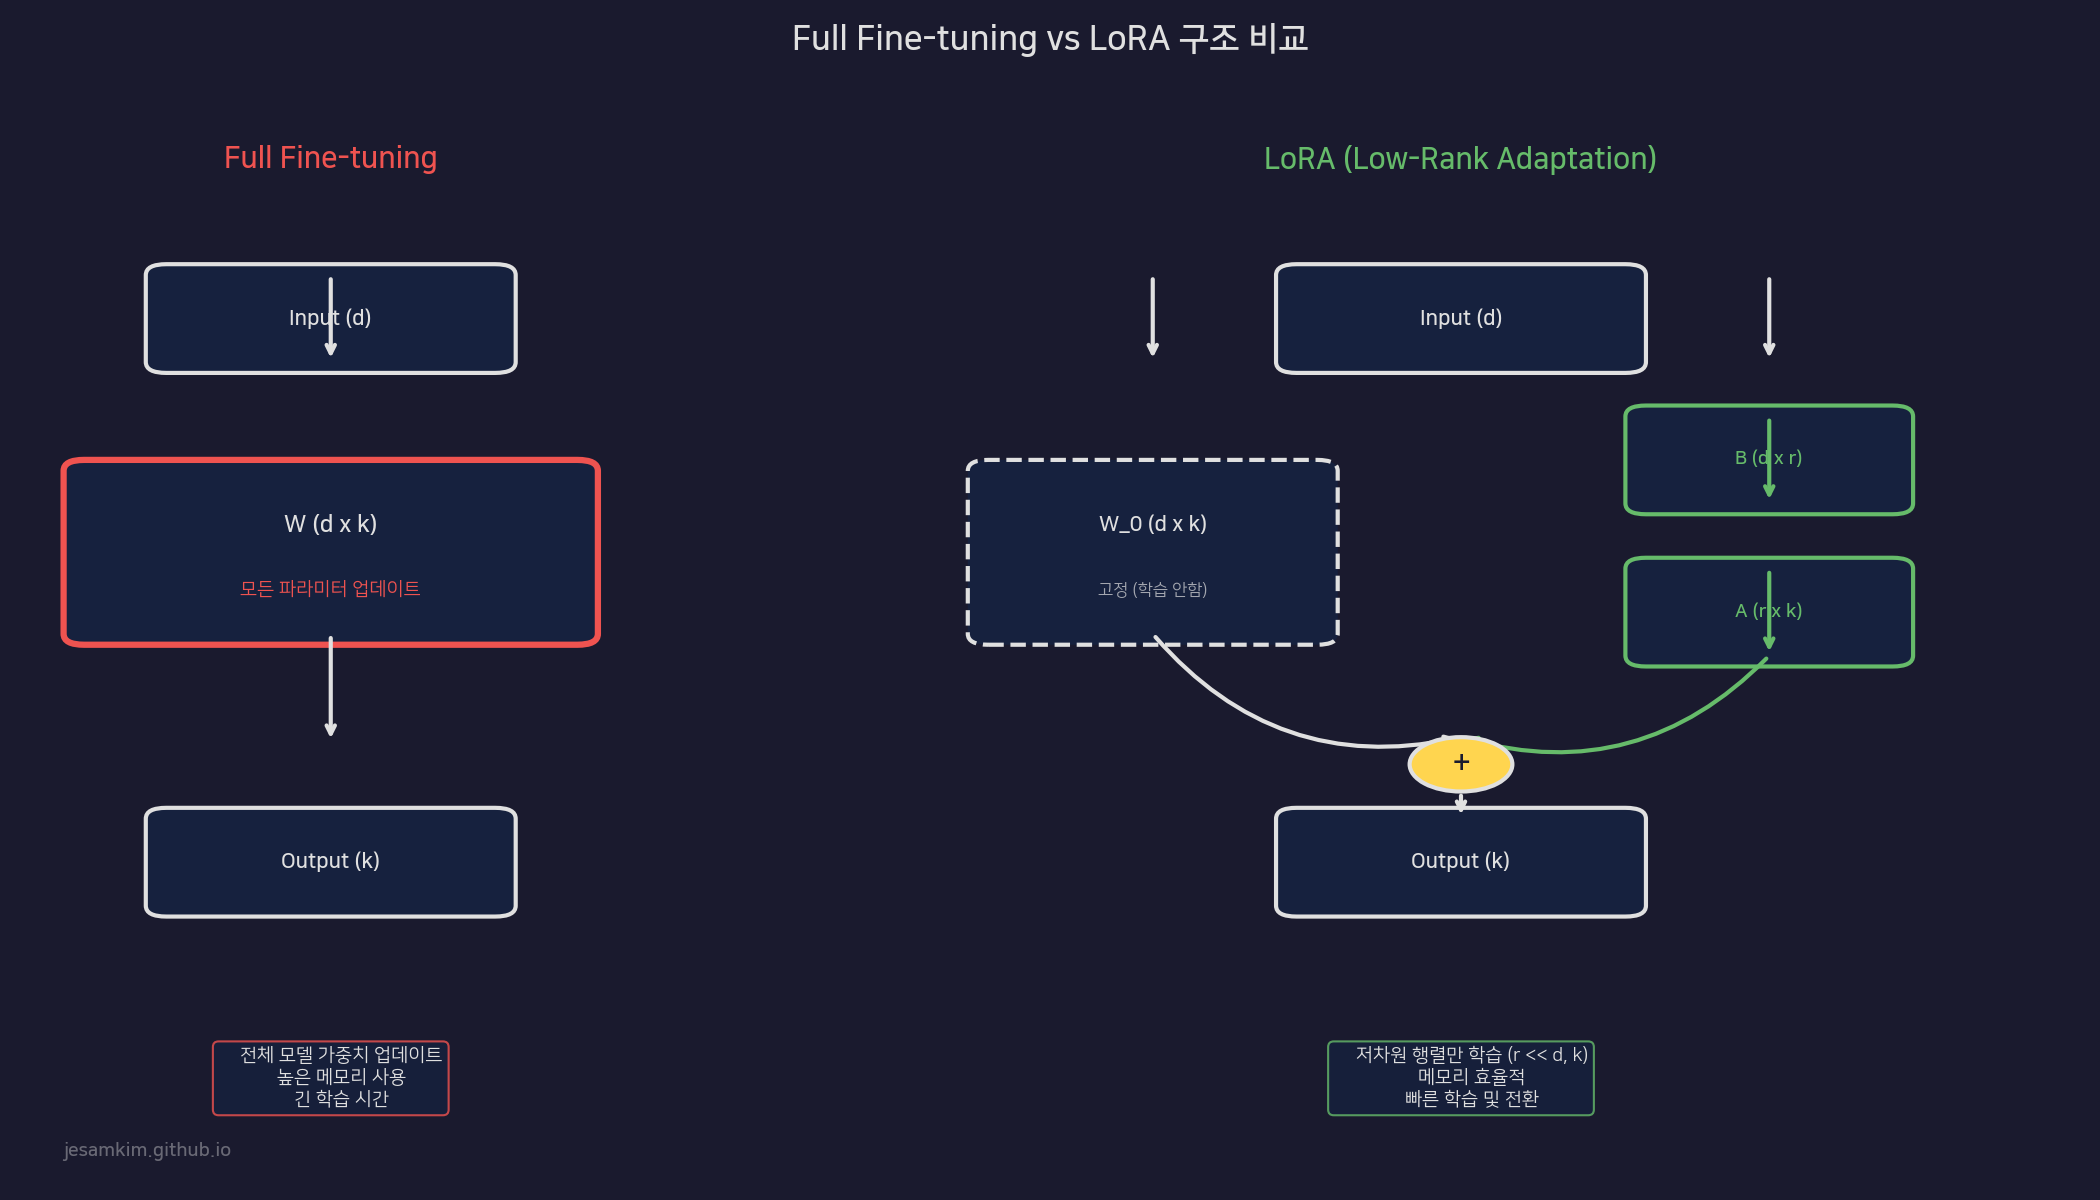
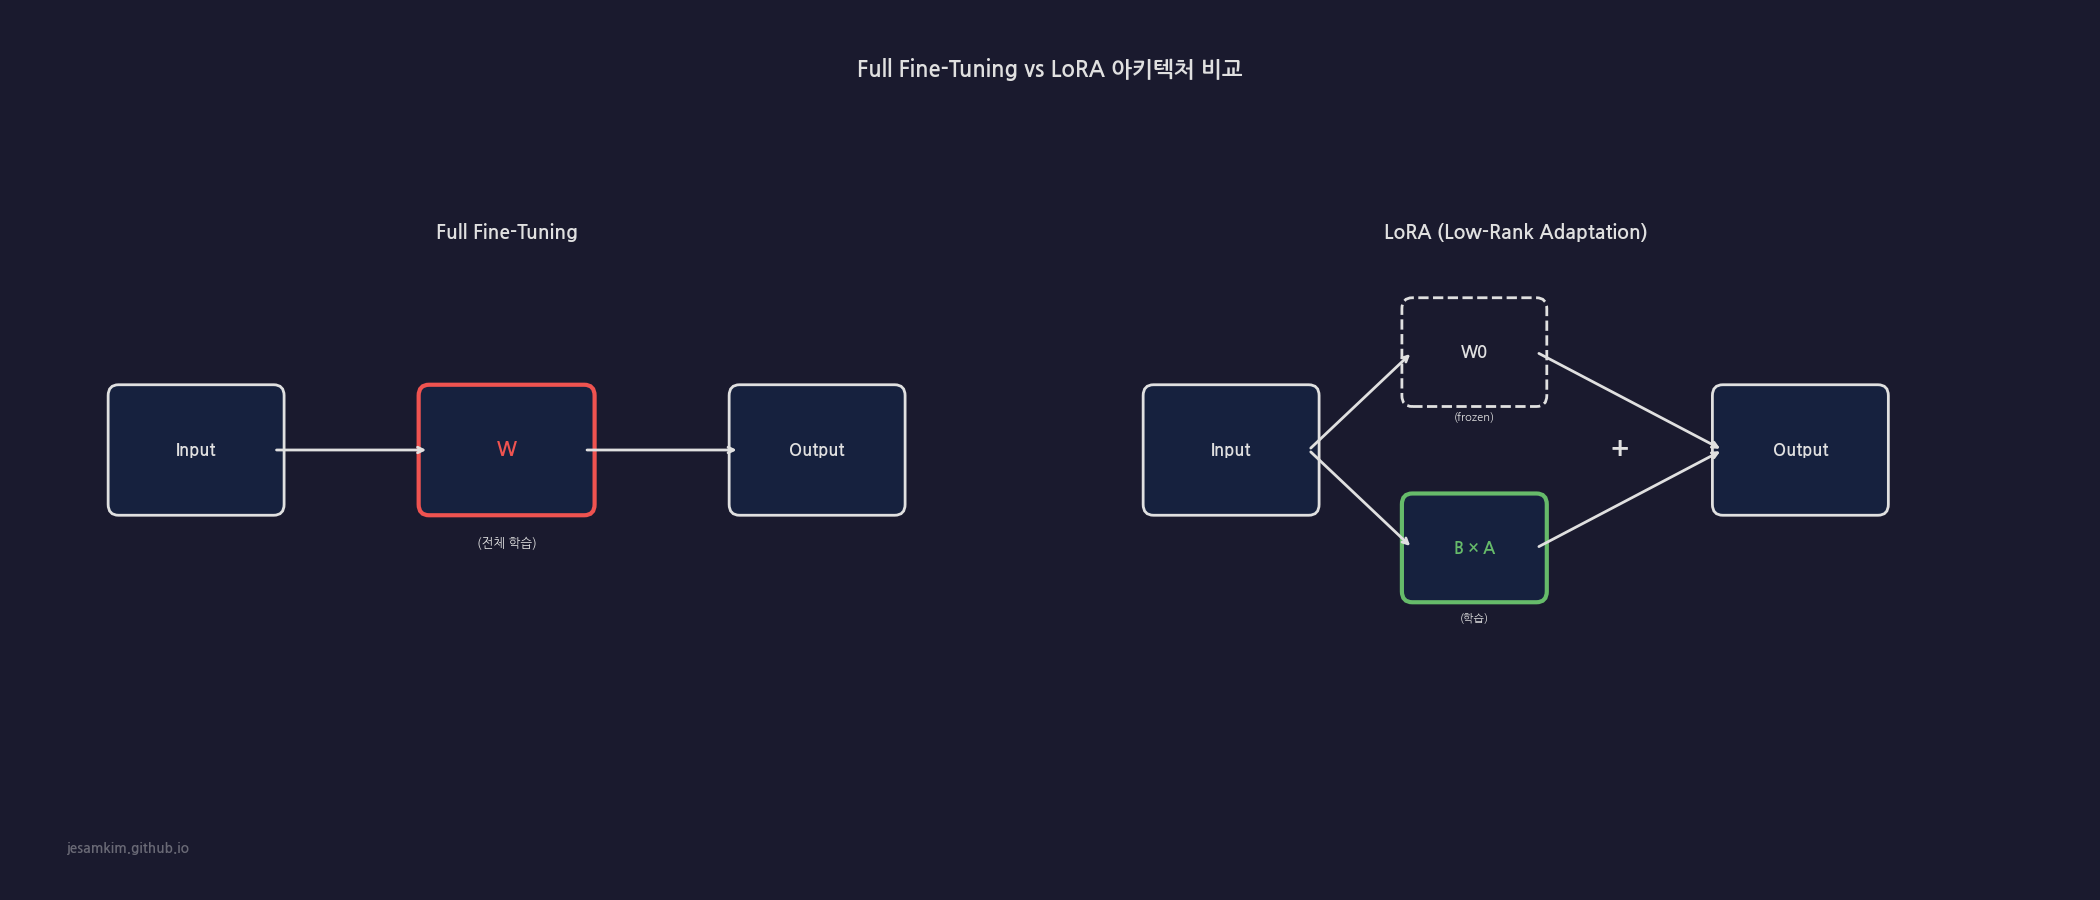
fix: 이미지 재생성 — 한글 폰트 적용, 겹침/잘림 수정

diff --git a/generate_lora_architecture.py b/generate_lora_architecture.py
@@ -1,0 +1,112 @@
+#!/usr/bin/env python3
+"""LoRA Architecture 비교 다이어그램 - 한글 폰트 수정"""
+
+import matplotlib
+matplotlib.rcParams["font.family"] = "NanumGothic"
+matplotlib.rcParams["axes.unicode_minus"] = False
+import matplotlib.pyplot as plt
+import matplotlib.patches as mpatches
+
+# 폰트 매니저 캐시 초기화
+import matplotlib.font_manager as fm
+fm._load_fontmanager(try_read_cache=False)
+
+# 다크 테마 색상
+BG_COLOR = "#1a1a2e"
+TEXT_COLOR = "#e0e0e0"
+BOX_COLOR = "#16213e"
+RED = "#ef5350"
+GREEN = "#66bb6a"
+
+# Figure 생성 (가로 21, 세로 9)
+fig, ax = plt.subplots(figsize=(21, 9), facecolor=BG_COLOR)
+ax.set_facecolor(BG_COLOR)
+ax.set_xlim(0, 20)
+ax.set_ylim(0, 8)
+ax.axis("off")
+
+# === 좌측: Full Fine-Tuning ===
+# Input 박스
+input1 = mpatches.FancyBboxPatch((1, 3.5), 1.5, 1, boxstyle="round,pad=0.1",
+                                  facecolor=BOX_COLOR, edgecolor=TEXT_COLOR, linewidth=2)
+ax.add_patch(input1)
+ax.text(1.75, 4, "Input", ha="center", va="center", fontsize=12, color=TEXT_COLOR, weight="bold")
+
+# W 박스 (빨간색)
+w1 = mpatches.FancyBboxPatch((4, 3.5), 1.5, 1, boxstyle="round,pad=0.1",
+                              facecolor=BOX_COLOR, edgecolor=RED, linewidth=3)
+ax.add_patch(w1)
+ax.text(4.75, 4, "W", ha="center", va="center", fontsize=14, color=RED, weight="bold")
+ax.text(4.75, 3.2, "(전체 학습)", ha="center", va="top", fontsize=9, color=TEXT_COLOR)
+
+# Output 박스
+output1 = mpatches.FancyBboxPatch((7, 3.5), 1.5, 1, boxstyle="round,pad=0.1",
+                                   facecolor=BOX_COLOR, edgecolor=TEXT_COLOR, linewidth=2)
+ax.add_patch(output1)
+ax.text(7.75, 4, "Output", ha="center", va="center", fontsize=12, color=TEXT_COLOR, weight="bold")
+
+# 화살표 (직선)
+ax.annotate("", xy=(4, 4), xytext=(2.5, 4),
+            arrowprops=dict(arrowstyle="->", color=TEXT_COLOR, lw=2))
+ax.annotate("", xy=(7, 4), xytext=(5.5, 4),
+            arrowprops=dict(arrowstyle="->", color=TEXT_COLOR, lw=2))
+
+# 타이틀
+ax.text(4.75, 6, "Full Fine-Tuning", ha="center", va="center",
+        fontsize=14, color=TEXT_COLOR, weight="bold")
+
+# === 우측: LoRA ===
+# Input 박스
+input2 = mpatches.FancyBboxPatch((11, 3.5), 1.5, 1, boxstyle="round,pad=0.1",
+                                  facecolor=BOX_COLOR, edgecolor=TEXT_COLOR, linewidth=2)
+ax.add_patch(input2)
+ax.text(11.75, 4, "Input", ha="center", va="center", fontsize=12, color=TEXT_COLOR, weight="bold")
+
+# W0 박스 (frozen, dashed)
+w0 = mpatches.FancyBboxPatch((13.5, 4.5), 1.2, 0.8, boxstyle="round,pad=0.1",
+                              facecolor=BG_COLOR, edgecolor=TEXT_COLOR, linewidth=2, linestyle="--")
+ax.add_patch(w0)
+ax.text(14.1, 4.9, "W0", ha="center", va="center", fontsize=12, color=TEXT_COLOR, weight="bold")
+ax.text(14.1, 4.3, "(frozen)", ha="center", va="center", fontsize=8, color=TEXT_COLOR, style="italic")
+
+# B*A 박스 (초록색)
+ba = mpatches.FancyBboxPatch((13.5, 2.7), 1.2, 0.8, boxstyle="round,pad=0.1",
+                              facecolor=BOX_COLOR, edgecolor=GREEN, linewidth=3)
+ax.add_patch(ba)
+ax.text(14.1, 3.1, "B × A", ha="center", va="center", fontsize=12, color=GREEN, weight="bold")
+ax.text(14.1, 2.5, "(학습)", ha="center", va="top", fontsize=8, color=TEXT_COLOR)
+
+# + 기호
+ax.text(15.5, 4, "+", ha="center", va="center", fontsize=20, color=TEXT_COLOR, weight="bold")
+
+# Output 박스
+output2 = mpatches.FancyBboxPatch((16.5, 3.5), 1.5, 1, boxstyle="round,pad=0.1",
+                                   facecolor=BOX_COLOR, edgecolor=TEXT_COLOR, linewidth=2)
+ax.add_patch(output2)
+ax.text(17.25, 4, "Output", ha="center", va="center", fontsize=12, color=TEXT_COLOR, weight="bold")
+
+# 화살표 (직선)
+ax.annotate("", xy=(13.5, 4.9), xytext=(12.5, 4),
+            arrowprops=dict(arrowstyle="->", color=TEXT_COLOR, lw=2))
+ax.annotate("", xy=(13.5, 3.1), xytext=(12.5, 4),
+            arrowprops=dict(arrowstyle="->", color=TEXT_COLOR, lw=2))
+ax.annotate("", xy=(16.5, 4), xytext=(14.7, 4.9),
+            arrowprops=dict(arrowstyle="->", color=TEXT_COLOR, lw=2))
+ax.annotate("", xy=(16.5, 4), xytext=(14.7, 3.1),
+            arrowprops=dict(arrowstyle="->", color=TEXT_COLOR, lw=2))
+
+# 타이틀
+ax.text(14.5, 6, "LoRA (Low-Rank Adaptation)", ha="center", va="center",
+        fontsize=14, color=TEXT_COLOR, weight="bold")
+
+# 전체 타이틀
+ax.text(10, 7.5, "Full Fine-Tuning vs LoRA 아키텍처 비교", ha="center", va="center",
+        fontsize=16, color=TEXT_COLOR, weight="bold")
+
+# 워터마크
+ax.text(0.5, 0.3, "jesamkim.github.io", fontsize=10, color=TEXT_COLOR, alpha=0.4, weight="bold")
+
+plt.tight_layout()
+plt.savefig("static/images/lora-architecture.png", dpi=100, facecolor=BG_COLOR)
+print("✓ lora-architecture.png 생성 완료")
+plt.close()

diff --git a/generate_peft_flowchart.py b/generate_peft_flowchart.py
@@ -1,0 +1,135 @@
+#!/usr/bin/env python3
+"""PEFT Decision Flowchart - 한글 폰트 수정"""
+
+import matplotlib
+matplotlib.rcParams["font.family"] = "NanumGothic"
+matplotlib.rcParams["axes.unicode_minus"] = False
+import matplotlib.pyplot as plt
+import matplotlib.patches as mpatches
+
+# 폰트 매니저 캐시 초기화
+import matplotlib.font_manager as fm
+fm._load_fontmanager(try_read_cache=False)
+
+# 다크 테마 색상
+BG_COLOR = "#1a1a2e"
+TEXT_COLOR = "#e0e0e0"
+BOX_COLOR = "#16213e"
+BLUE = "#4fc3f7"
+GREEN = "#66bb6a"
+YELLOW = "#ffd54f"
+
+# Figure 생성 (가로 18, 세로 21, xlim 여유 충분히)
+fig, ax = plt.subplots(figsize=(18, 21), facecolor=BG_COLOR)
+ax.set_facecolor(BG_COLOR)
+ax.set_xlim(-1, 17)  # 오른쪽 여유 증가
+ax.set_ylim(0, 20)
+ax.axis("off")
+
+def draw_diamond(ax, x, y, w, h, text, color=BLUE):
+    """다이아몬드 판단 노드"""
+    diamond = mpatches.FancyBboxPatch(
+        (x - w/2, y - h/2), w, h,
+        boxstyle="round,pad=0.1",
+        facecolor=BOX_COLOR, edgecolor=color, linewidth=2
+    )
+    ax.add_patch(diamond)
+    # 텍스트 줄바꿈
+    lines = text.split("\n")
+    y_offset = 0.15 * (len(lines) - 1)
+    for i, line in enumerate(lines):
+        ax.text(x, y + y_offset - i * 0.3, line, ha="center", va="center",
+                fontsize=10, color=TEXT_COLOR, weight="bold")
+
+def draw_box(ax, x, y, w, h, text, color=GREEN):
+    """사각형 결과 노드"""
+    box = mpatches.FancyBboxPatch(
+        (x - w/2, y - h/2), w, h,
+        boxstyle="round,pad=0.1",
+        facecolor=BOX_COLOR, edgecolor=color, linewidth=2
+    )
+    ax.add_patch(box)
+    ax.text(x, y, text, ha="center", va="center",
+            fontsize=11, color=color, weight="bold")
+
+def draw_arrow(ax, x1, y1, x2, y2, label=""):
+    """직선 화살표"""
+    ax.annotate("", xy=(x2, y2), xytext=(x1, y1),
+                arrowprops=dict(arrowstyle="->", color=TEXT_COLOR, lw=2))
+    if label:
+        mid_x, mid_y = (x1 + x2) / 2, (y1 + y2) / 2
+        ax.text(mid_x + 0.3, mid_y, label, ha="left", va="center",
+                fontsize=9, color=YELLOW, style="italic")
+
+# === 플로우차트 구조 ===
+
+# 시작
+ax.text(8, 19, "PEFT 기법 선택 가이드", ha="center", va="center",
+        fontsize=16, color=TEXT_COLOR, weight="bold")
+
+# 1. GPU 메모리
+draw_diamond(ax, 8, 17, 3, 1, "GPU 메모리\n제한 심각?")
+draw_arrow(ax, 8, 16.5, 8, 15.5, "YES")
+draw_box(ax, 8, 15, 2.5, 0.8, "QLoRA", GREEN)
+
+draw_arrow(ax, 10, 17, 12, 17)
+ax.text(11, 17.3, "NO", ha="center", va="bottom", fontsize=9, color=YELLOW, style="italic")
+
+# 2. 태스크 복잡도
+draw_diamond(ax, 12, 17, 3, 1, "태스크\n복잡도 높음?")
+draw_arrow(ax, 12, 16.5, 12, 15.5, "YES")
+draw_box(ax, 12, 15, 2.5, 0.8, "LoRA / DoRA", GREEN)
+
+draw_arrow(ax, 12, 16.5, 8, 13.5)
+ax.text(10, 15, "NO", ha="center", va="center", fontsize=9, color=YELLOW, style="italic")
+
+# 3. 도메인 적응
+draw_diamond(ax, 8, 13, 3, 1, "도메인 적응\n목적?")
+draw_arrow(ax, 8, 12.5, 8, 11.5, "YES")
+draw_box(ax, 8, 11, 2.5, 0.8, "Adapter", GREEN)
+
+draw_arrow(ax, 6, 13, 4, 13)
+ax.text(5, 13.3, "NO", ha="center", va="bottom", fontsize=9, color=YELLOW, style="italic")
+
+# 4. 프롬프트 기반
+draw_diamond(ax, 4, 13, 3, 1, "프롬프트\n기반 선호?")
+draw_arrow(ax, 4, 12.5, 4, 11.5, "YES")
+
+# 5. 생성 태스크
+draw_diamond(ax, 4, 11, 2.8, 1, "생성\n태스크?")
+draw_arrow(ax, 4, 10.5, 2.5, 9.5, "YES")
+draw_box(ax, 2.5, 9, 2.5, 0.8, "Prefix-Tuning", GREEN)
+
+draw_arrow(ax, 4, 10.5, 5.5, 9.5, "NO")
+draw_box(ax, 5.5, 9, 2.5, 0.8, "P-Tuning v2", GREEN)
+
+# 6. 추론 속도
+draw_arrow(ax, 4, 12.5, 8, 9)
+ax.text(6, 10.5, "NO", ha="center", va="center", fontsize=9, color=YELLOW, style="italic")
+
+draw_diamond(ax, 8, 9, 3, 1, "추론 속도\n중요?")
+draw_arrow(ax, 8, 8.5, 8, 7.5, "YES")
+draw_box(ax, 8, 7, 2.5, 0.8, "IA³", GREEN)
+
+draw_arrow(ax, 10, 9, 12, 9)
+ax.text(11, 9.3, "NO", ha="center", va="bottom", fontsize=9, color=YELLOW, style="italic")
+
+# 7. 관리형 서비스
+draw_diamond(ax, 12, 9, 3, 1, "관리형\n서비스?")
+draw_arrow(ax, 12, 8.5, 12, 7.5, "YES")
+draw_box(ax, 12, 7, 2.5, 0.8, "Nova Forge", GREEN)
+
+draw_arrow(ax, 12, 8.5, 12, 5.5, "NO")
+draw_box(ax, 12, 5, 2.5, 0.8, "LoRA (기본)", GREEN)
+
+# 하단 요약
+ax.text(8, 3, "※ 일반적 권장: LoRA → DoRA → QLoRA 순서로 시도",
+        ha="center", va="center", fontsize=11, color=BLUE, style="italic")
+
+# 워터마크
+ax.text(0.5, 0.5, "jesamkim.github.io", fontsize=10, color=TEXT_COLOR, alpha=0.4, weight="bold")
+
+plt.tight_layout()
+plt.savefig("static/images/peft-decision-flowchart.png", dpi=100, facecolor=BG_COLOR)
+print("✓ peft-decision-flowchart.png 생성 완료")
+plt.close()

diff --git a/generate_peft_timeline.py b/generate_peft_timeline.py
@@ -1,0 +1,88 @@
+#!/usr/bin/env python3
+"""PEFT Evolution Timeline 생성 - 한글 폰트 수정"""
+
+import matplotlib
+matplotlib.rcParams["font.family"] = "NanumGothic"
+matplotlib.rcParams["axes.unicode_minus"] = False
+import matplotlib.pyplot as plt
+import matplotlib.patches as mpatches
+
+# 폰트 매니저 캐시 초기화
+import matplotlib.font_manager as fm
+fm._load_fontmanager(try_read_cache=False)
+
+# 다크 테마 색상
+BG_COLOR = "#1a1a2e"
+TEXT_COLOR = "#e0e0e0"
+BOX_COLOR = "#16213e"
+BLUE = "#4fc3f7"
+GREEN = "#66bb6a"
+RED = "#ef5350"
+PURPLE = "#ab47bc"
+YELLOW = "#ffd54f"
+
+# 타임라인 데이터 (년도, 기법명, 한글설명, 색상, 위치)
+timeline_data = [
+    (2019, "Adapter", "사전학습 모델에 작은 어댑터 추가", BLUE, 1),
+    (2019, "LoRA", "저랭크 행렬 분해로 파라미터 압축", GREEN, -1),
+    (2020, "Prefix-Tuning", "입력 프롬프트에 학습 가능한 prefix 추가", RED, 1),
+    (2021, "P-Tuning v2", "모든 레이어에 학습 가능한 프롬프트", PURPLE, -1),
+    (2022, "IA³", "학습된 벡터를 activation에 곱셈 적용", YELLOW, 1),
+    (2023, "QLoRA", "4비트 양자화 + LoRA 결합", BLUE, -1),
+    (2024, "DoRA", "Weight 분해를 방향/크기로 개선", GREEN, 1),
+    (2025, "Nova Forge", "AWS 관리형 파인튜닝 서비스", RED, -1),
+]
+
+# Figure 생성 (가로 21, 세로 12)
+fig, ax = plt.subplots(figsize=(21, 12), facecolor=BG_COLOR)
+ax.set_facecolor(BG_COLOR)
+ax.set_xlim(2018.5, 2025.5)
+ax.set_ylim(-3, 3)
+ax.axis("off")
+
+# 중앙 타임라인 (수평선)
+ax.plot([2019, 2025], [0, 0], color=TEXT_COLOR, linewidth=3)
+
+# 각 연도 마커
+for year in range(2019, 2026):
+    ax.plot([year, year], [-0.1, 0.1], color=TEXT_COLOR, linewidth=2)
+    ax.text(year, -0.4, str(year), ha="center", va="top",
+            fontsize=14, color=TEXT_COLOR, weight="bold")
+
+# 기법 박스 그리기
+for year, name, desc, color, pos in timeline_data:
+    y_box = 1.2 if pos == 1 else -1.2
+    y_line_end = 0.2 if pos == 1 else -0.2
+
+    # 박스
+    box = mpatches.FancyBboxPatch(
+        (year - 0.4, y_box - 0.3), 0.8, 0.6,
+        boxstyle="round,pad=0.05",
+        facecolor=BOX_COLOR, edgecolor=color, linewidth=2
+    )
+    ax.add_patch(box)
+
+    # 기법명 (영문)
+    ax.text(year, y_box + 0.08, name, ha="center", va="center",
+            fontsize=13, color=color, weight="bold")
+
+    # 한글 설명
+    ax.text(year, y_box - 0.12, desc, ha="center", va="center",
+            fontsize=10, color=TEXT_COLOR)
+
+    # 점선 (박스 외부에서 타임라인까지)
+    ax.plot([year, year], [y_line_end, y_box - 0.3 if pos == -1 else y_box + 0.3],
+            color=TEXT_COLOR, linestyle="--", linewidth=1, alpha=0.5)
+
+# 타이틀
+ax.text(2022, 2.5, "PEFT 기법 진화 타임라인 (2019~2025)",
+        ha="center", va="center", fontsize=18, color=TEXT_COLOR, weight="bold")
+
+# 워터마크
+ax.text(2019.2, -2.7, "jesamkim.github.io",
+        fontsize=10, color=TEXT_COLOR, alpha=0.4, weight="bold")
+
+plt.tight_layout()
+plt.savefig("static/images/peft-evolution-timeline.png", dpi=100, facecolor=BG_COLOR)
+print("✓ peft-evolution-timeline.png 생성 완료")
+plt.close()

diff --git a/content/posts/2026-03-11-peft-guide-lora-to-nova-forge.md b/content/posts/2026-03-11-peft-guide-lora-to-nova-forge.md
@@ -252,10 +252,15 @@ training_config:
 ### Forgetting 방지 체크리스트
 
 ✅ <strong>LoRA/LoRA+ 사용</strong> (Full-rank보다 우선)
+
 ✅ <strong>Data Mixing 활성화</strong> (50% Nova 데이터 혼합)
+
 ✅ <strong>Reasoning 데이터 포함</strong> (범용 벤치마크 유지)
+
 ✅ <strong>중간 체크포인트 검증</strong> (MMLU, HellaSwag 등)
+
 ✅ <strong>Learning rate 보수적 설정</strong> (1e-5 이하)
+
 ✅ <strong>적절한 Warmup</strong> (max_steps의 15%)
 
 ### 데이터 준비 팁
